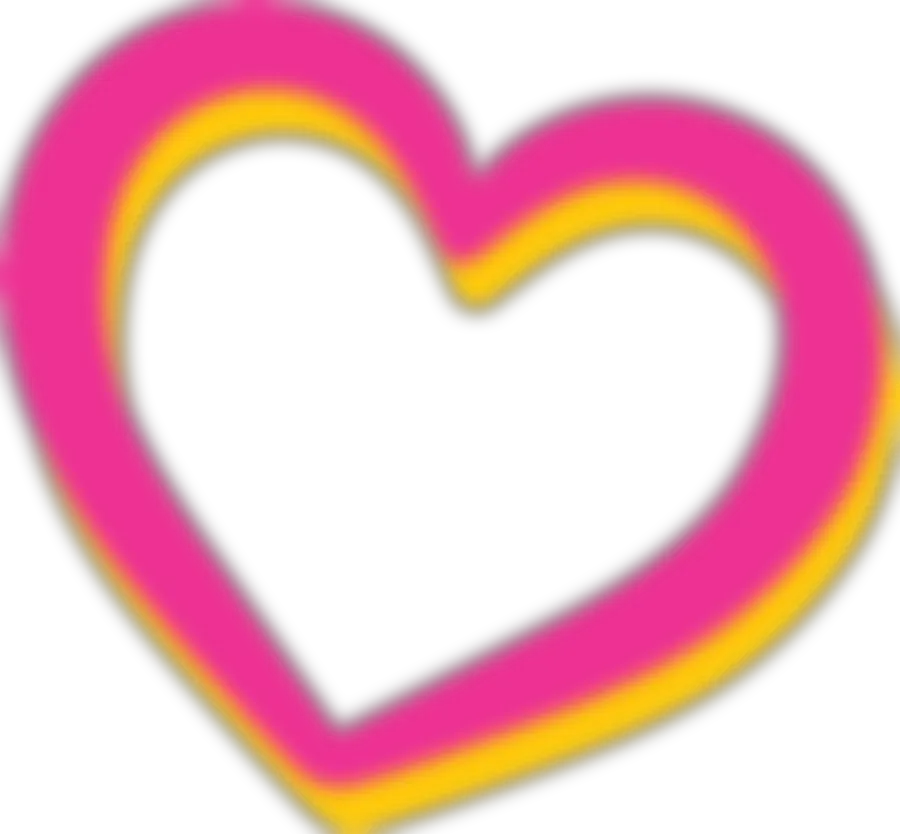
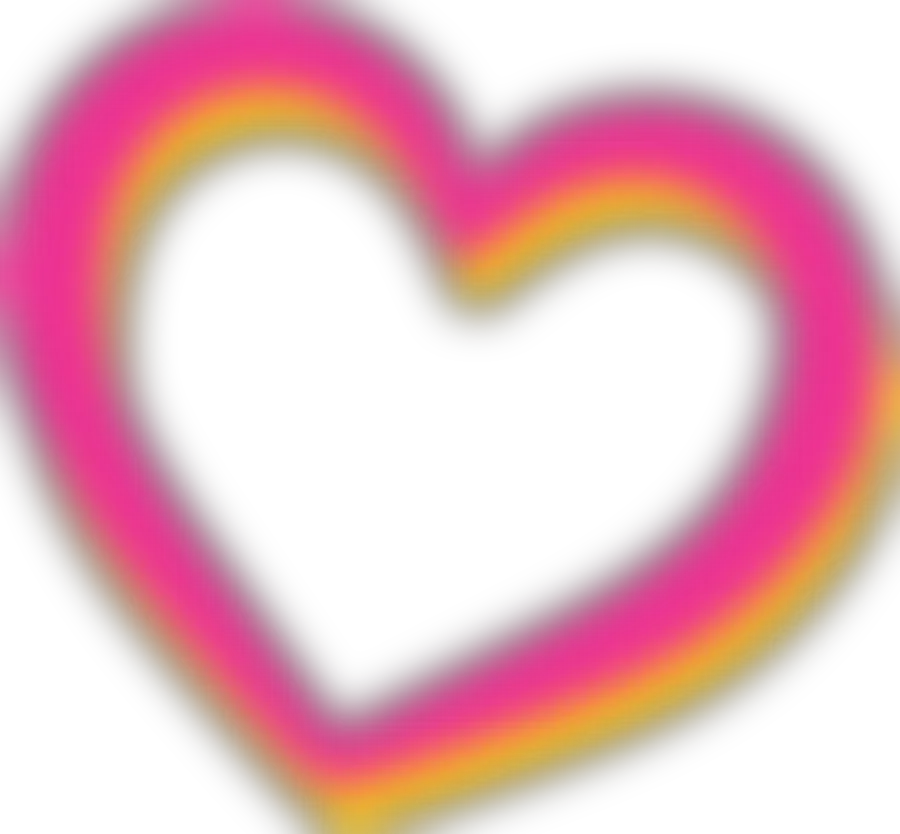
style: refina visual mobile mantendo performance

Changed region(s): [[0.0, 0.0, 1.0, 1.0], [0.0, 0.0, 0.2489, 0.2806]]

diff --git a/style.css b/style.css
@@ -1146,39 +1146,126 @@ html.light .theme-switch__indicator {
 }
 
 /* =========================================================
-   OTIMIZAÇÃO DE PERFORMANCE — MOBILE V2
+   OTIMIZAÇÃO DE PERFORMANCE — MOBILE V3
+   Design refinado + alta performance
    ========================================================= */
 
 @media (max-width: 699px) {
 
+    /* =====================================================
+       FUNDO — ESCURO
+       ===================================================== */
+
     :root {
         --page-gradient:
+            radial-gradient(
+                circle at 10% 2%,
+                rgba(49, 126, 196, 0.18) 0%,
+                transparent 32%
+            ),
+            radial-gradient(
+                circle at 94% 28%,
+                rgba(238, 43, 139, 0.08) 0%,
+                transparent 34%
+            ),
             linear-gradient(
                 180deg,
-                #061a3a 0%,
-                #03152f 52%,
+                #071c3d 0%,
+                #04152f 52%,
                 #021127 100%
             );
+
+        --heart-opacity: 0.56;
+
+        --card-bg:
+            linear-gradient(
+                145deg,
+                rgba(13, 39, 76, 0.98),
+                rgba(5, 27, 60, 0.98)
+            );
+
+        --card-border:
+            rgba(151, 180, 217, 0.22);
+
+        --card-shadow:
+            inset 0 1px 0 rgba(255, 255, 255, 0.035),
+            0 9px 22px rgba(0, 4, 18, 0.16);
+
+        --switch-bg:
+            rgba(8, 30, 64, 0.97);
+
+        --social-bg:
+            rgba(10, 36, 73, 0.97);
     }
+
+
+    /* =====================================================
+       FUNDO — CLARO
+       ===================================================== */
 
     html.light {
         --page-gradient:
+            radial-gradient(
+                circle at 8% 4%,
+                rgba(54, 154, 214, 0.15) 0%,
+                transparent 31%
+            ),
+            radial-gradient(
+                circle at 92% 27%,
+                rgba(238, 43, 139, 0.085) 0%,
+                transparent 33%
+            ),
             linear-gradient(
                 180deg,
-                #f6fbff 0%,
-                #f8fbfd 52%,
-                #eef6fb 100%
+                #f7fbff 0%,
+                #f8fbfd 48%,
+                #edf6fb 100%
             );
+
+        --heart-opacity: 0.40;
+
+        --card-bg:
+            linear-gradient(
+                145deg,
+                rgba(255, 255, 255, 0.99),
+                rgba(247, 251, 254, 0.97)
+            );
+
+        --card-border:
+            rgba(28, 77, 121, 0.10);
+
+        --card-shadow:
+            inset 0 1px 0 rgba(255, 255, 255, 0.95),
+            0 9px 22px rgba(26, 62, 96, 0.085);
+
+        --switch-bg:
+            rgba(255, 255, 255, 0.94);
+
+        --social-bg:
+            rgba(255, 255, 255, 0.96);
     }
+
+
+    /* =====================================================
+       CAMADA FIXA DO CORAÇÃO
+       ===================================================== */
 
     .background-effects {
         position: fixed;
 
-        top: 0;
-        left: 0;
+        inset: 0;
 
         width: 100%;
-        height: 100svh;
+
+        /*
+           LVH = maior viewport possível.
+
+           Não cria aquele espaço no final quando
+           a barra do navegador mobile desaparece.
+        */
+
+        height: 100lvh;
+        min-height: 100lvh;
 
         overflow: hidden;
 
@@ -1187,29 +1274,59 @@ html.light .theme-switch__indicator {
         contain: layout paint;
     }
 
+
+    /*
+       O fundo principal já possui as manchas
+       através dos radial-gradients.
+
+       Assim economizamos duas grandes camadas.
+    */
+
     .background-effects__blue,
     .background-effects__pink {
         display: none;
     }
 
+
+    /* =====================================================
+       CORAÇÃO
+       ===================================================== */
+
     .campaign-heart {
         position: absolute;
 
-        top: 64svh;
-        right: -46vw;
-        bottom: auto;
+        left: 50%;
+        right: auto;
 
-        width: 138vw;
+        top: auto;
+
+        /*
+           Preso ao fundo da MAIOR viewport.
+
+           Não acompanha expansão/redução
+           das barras do navegador.
+        */
+
+        bottom: -15lvh;
+
+        width: min(150vw, 650px);
         max-width: none;
+
         height: auto;
 
         opacity: var(--heart-opacity);
 
+        /*
+           O blur já está no WebP.
+           Nenhum blur calculado pelo navegador.
+        */
+
         filter: none;
 
         transform:
+            translate3d(-50%, 0, 0)
             rotate(-8deg)
-            scale(1.06);
+            scale(1.04);
 
         transform-origin: center;
 
@@ -1222,6 +1339,11 @@ html.light .theme-switch__indicator {
         transition: none !important;
     }
 
+
+    /* =====================================================
+       CARDS — SEM BACKDROP FILTER
+       ===================================================== */
+
     #theme-switch,
     .link-card,
     .social-link {
@@ -1229,10 +1351,17 @@ html.light .theme-switch__indicator {
         -webkit-backdrop-filter: none;
     }
 
+
+    /* =====================================================
+       CARDS
+       ===================================================== */
+
     .link-card {
-        box-shadow:
-            0 7px 17px
-            rgba(7, 34, 67, 0.08);
+        background: var(--card-bg);
+
+        border-color: var(--card-border);
+
+        box-shadow: var(--card-shadow);
 
         transition: none !important;
 
@@ -1241,48 +1370,56 @@ html.light .theme-switch__indicator {
         -webkit-tap-highlight-color:
             rgba(235, 46, 139, 0.08);
     }
+
 
     .link-card:hover {
         transform: none;
 
         background: var(--card-bg);
 
-        box-shadow:
-            0 7px 17px
-            rgba(7, 34, 67, 0.08);
+        box-shadow: var(--card-shadow);
     }
+
 
     .link-card:active {
         transform: none;
 
-        opacity: 0.88;
+        opacity: 0.90;
     }
 
-    .social-link {
+
+    /* =====================================================
+       ÍCONES
+       ===================================================== */
+
+    .link-card__icon {
         box-shadow:
-            0 6px 15px
-            rgba(7, 34, 67, 0.08);
-
-        transition: none !important;
-
-        touch-action: manipulation;
-
-        -webkit-tap-highlight-color:
-            rgba(235, 46, 139, 0.08);
+            inset 0 0 0 1px
+            rgba(235, 46, 139, 0.035);
     }
 
-    .social-link:hover,
-    .social-link:active {
-        transform: none;
-    }
+
+    /* =====================================================
+       SWITCH
+       ===================================================== */
 
     #theme-switch {
+        box-shadow:
+            0 7px 17px
+            rgba(12, 42, 73, 0.07);
+
         touch-action: manipulation;
 
         -webkit-tap-highlight-color: transparent;
 
         transition: none !important;
     }
+
+
+    /*
+       Esta continua sendo praticamente
+       a única animação importante do mobile.
+    */
 
     .theme-switch__indicator {
         transition:
@@ -1295,6 +1432,48 @@ html.light .theme-switch__indicator {
             ) !important;
     }
 
+
+    /* =====================================================
+       REDES SOCIAIS
+       ===================================================== */
+
+    .social-link {
+        background: var(--social-bg);
+
+        box-shadow:
+            0 8px 20px
+            rgba(9, 35, 66, 0.09);
+
+        transition: none !important;
+
+        touch-action: manipulation;
+
+        -webkit-tap-highlight-color:
+            rgba(235, 46, 139, 0.08);
+    }
+
+
+    .social-link:hover,
+    .social-link:active {
+        transform: none;
+    }
+
+
+    /* =====================================================
+       FOTO
+       ===================================================== */
+
+    .profile-image-wrapper {
+        box-shadow:
+            0 13px 30px
+            rgba(15, 54, 91, 0.11);
+    }
+
+
+    /* =====================================================
+       TROCA DE TEMA
+       ===================================================== */
+
     body,
     .profile-image-wrapper,
     .profile-username,
@@ -1306,11 +1485,5 @@ html.light .theme-switch__indicator {
     .site-footer p,
     .site-footer a {
         transition: none !important;
-    }
-
-    .profile-image-wrapper {
-        box-shadow:
-            0 9px 23px
-            rgba(15, 54, 91, 0.09);
     }
 }
